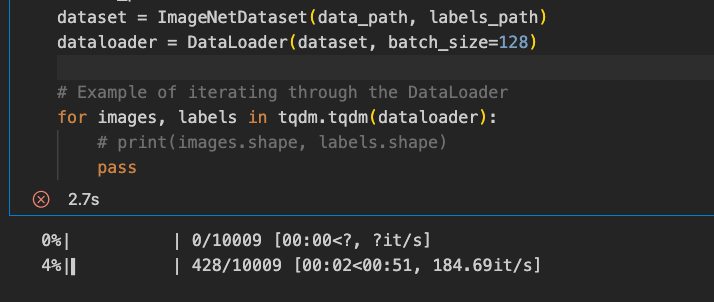
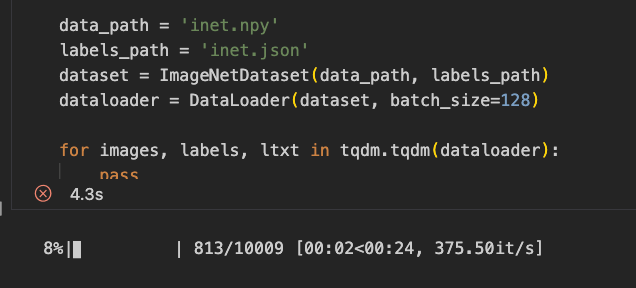
fixed silly int8 bug

diff --git a/README.md b/README.md
@@ -37,60 +37,55 @@ So clearly, it doesn't make sense to download entire Imagenet and process with V
 
 # How do I use this?
 
-Previously simo's setup used mosaic-streaming and other huggingface stuff, it must be simplified, i do one mmap and one text file! that's it! 
+Previously simo's setup used mosaic-streaming and other huggingface stuff, it must be simplified, i do one mmap and one json file! that's it! 
 
 so u just do , 
 ```bash
-wget https://huggingface.co/ramimmo/mini.imgnet.int8/resolve/main/inet.txt
+wget https://huggingface.co/ramimmo/mini.imgnet.int8/resolve/main/inet.json
 wget https://huggingface.co/ramimmo/mini.imgnet.int8/resolve/main/inet.npy
 ```
 
-then u use this, simple function, u don't need inet.txt file if u don't need it!
+usage is simple too:
 ```python
 
 import numpy as np
 import torch
 import tqdm
+import json
 from torch.utils.data import Dataset, DataLoader
 
 class ImageNetDataset(Dataset):
     def __init__(self, data_path, labels_path=None):
-        self.data = np.memmap(data_path, dtype='uint8', mode='r', shape=(1_281_152, 4097))
-        if labels_path is not None:
-            with open(labels_path, 'r') as f:
-                self.labels_txt = [(line.strip()) for line in f]
+        self.data = np.memmap(data_path, dtype='uint8', mode='r', shape=(1281152, 4096))
+        with open(labels_path, 'r') as f:
+            self.labels = json.load(f)
 
     def __len__(self):
         return len(self.data)
 
     def __getitem__(self, idx):
         image = self.data[idx]
-        image, label = image[:-1], image[-1]
+        label, label_text = self.labels[idx]
         image = image.astype(np.float32).reshape(4, 32, 32)
         image = (image / 255.0 - 0.5) * 24.0
-        image = torch.tensor(image, dtype=torch.float32)
-        label = torch.tensor(label, dtype=torch.long)
-        
-        if hasattr(self, 'labels_txt'):
-            return image, label, self.labels_txt[idx]
-        return image, label
+        return image, label, label_text
 
 data_path = 'inet.npy'
-labels_path = None#'inet.txt'
+labels_path = 'inet.json'
 dataset = ImageNetDataset(data_path, labels_path)
 dataloader = DataLoader(dataset, batch_size=128)
 
-for images, labels in tqdm.tqdm(dataloader):
-    # print(images.shape, labels.shape)
+for images, labels, ltxt in tqdm.tqdm(dataloader):
     pass
-
 
 ```
 
 
 voila, you have onefile imagenet on your hand! 5GB only! you don't need streaming library u can use dataloader samplers and primitives , don't overthink it!
+
 ![speed of mini-inet](contents/image.png) 
-We're iterating at 23k img/second, that's 5x faster than mosaic streaming, and we're not limited by performance artifacts of random sampling from chunked datasets!
+
+We're iterating at 48k img/second, that's 10x faster than mosaic streaming, and we're not limited by performance artifacts of random sampling from chunked datasets!
 ```python
 ###### Example Usage. Decode back the 5th image. BTW shuffle plz
 from diffusers.models import AutoencoderKL
@@ -128,7 +123,7 @@ If you find this material helpful, consider citation!
 
 @misc{mini_inet_int8,
   author       = {Rami Seid},
-  title        = {Making imagenet8 even easier},
+  title        = {Making imagenet.int8 even easier},
   year         = 2024,
   publisher    = {Hugging Face Datasets},
   url          = {https://github.com/SonicCodes/imagenet.int8},
